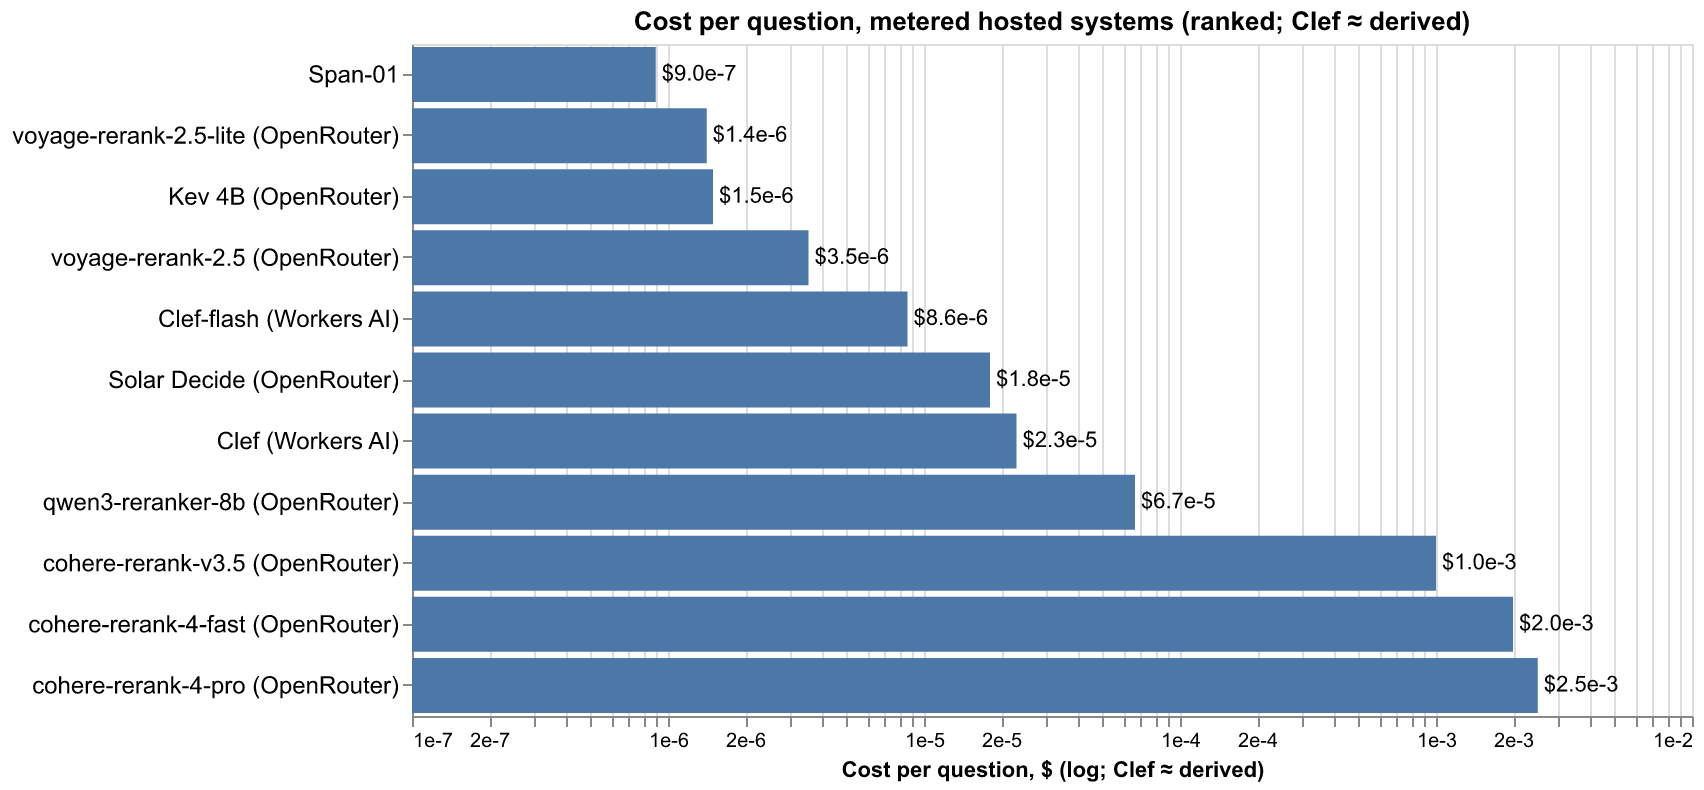
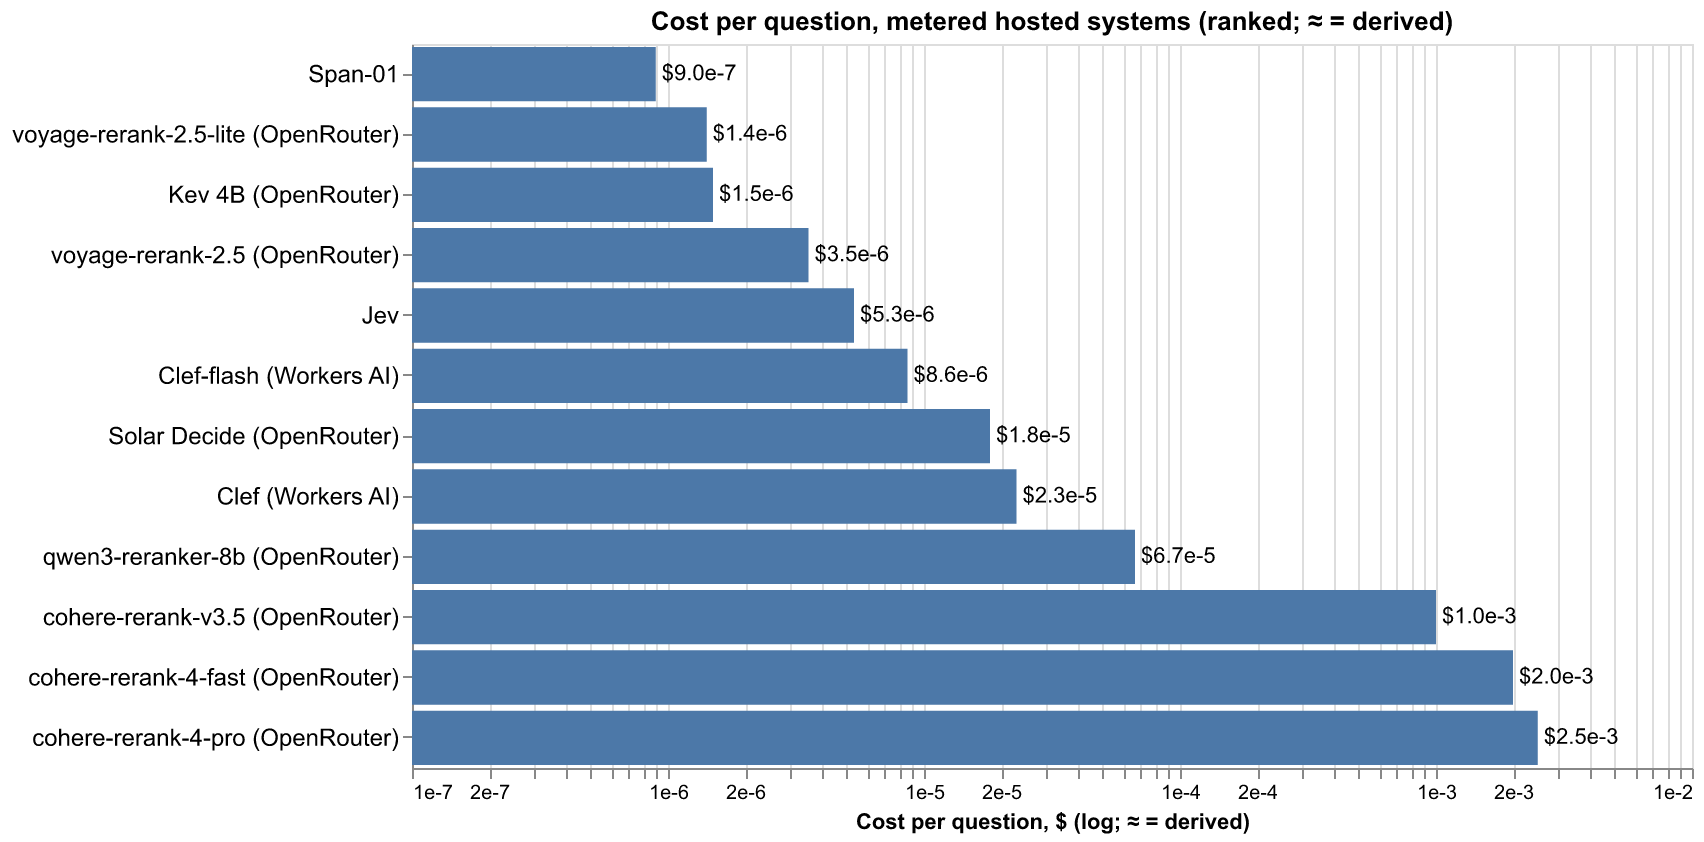
docs(readme,charts): chart Jev at its derived cost
The cost table gains a Jev row — $0.00026 / $0.00027 runs,
$0.0000053 per question — sorted between voyage-rerank-2.5 and
Clef-flash, and the intro + family-table footnotes restate the
derivation rule (list price × measured tokens) for both
tokens-only providers. Regenerated cost charts carry the 12th
metered system and the generalized "≈ = derived" axis title.

Changed region(s): [[0.0, 0.0, 0.9953, 1.0]]

diff --git a/README.md b/README.md
@@ -42,7 +42,7 @@ Just here for the results? **[Skip to the benchmark charts](#benchmark-charts)**
 | [decision](https://ollaya.dev/library/decision) (`decision` via Ollaya) | local decision engine (vLLM Semantic Router Decision 1.0: Qwen3.5-0.8B backbone + endpoint head, one forward pass per question) | 0.75B | Apache 2.0 | $0 · local |
 | [JevK5 4B](https://huggingface.co/alibiserikbay/JevK5-GGUF) (`jevk5` via Ollaya, Q8_0 GGUF) | local decision LLM (the full JevK5 v0.3 on llama.cpp; letters' logits, one pass per question) | 4B | Apache 2.0 | $0 · local |
 | [Winnow E4B](https://huggingface.co/EldanRing/Winnow-E4B) (`winnow:e4b` via Ollaya, Q8_0 GGUF) | local decision LLM (EldanRing, fine-tuned from Gemma 4 E4B on llama.cpp; option letters' logits) | E4B (8 GB Q8_0) | Apache 2.0 | $0 · local |
-| [Jev](https://www.typesafe.ai/) (`jev-latest` via System One API) | cloud typed-decision engine (choice/score/noul) | closed | proprietary API | metered · n/r ‡ |
+| [Jev](https://www.typesafe.ai/) (`jev-latest` via System One API) | cloud typed-decision engine (choice/score/noul) | closed | proprietary API | metered · $5.3e-6/q ‡ |
 | [Kev 4B](https://openrouter.ai/jaredpalmer/kev-4b) (`jaredpalmer/kev-4b` via OpenRouter) | cloud decision engine (same System One contract as local Kev, hosted) | 4B | proprietary API | metered · $1.5e-6/q † |
 | [Solar Decide](https://openrouter.ai/upstage/solar-decide) (`upstage/solar-decide` via OpenRouter) | cloud typed-decision engine (Upstage System One endpoint on Solar Mini 4: choice/score/noul with calibrated probabilities, no prose — one forward, output tokens free, 524K context) | 35B MoE (3B active) | proprietary API | metered · $1.8e-5/q † |
 | [Clef](https://developers.cloudflare.com/workers-ai/models/clef/) / [Clef-flash](https://developers.cloudflare.com/workers-ai/models/clef-flash/) (`clef` / `clef-flash` on Cloudflare Workers AI) | cloud typed-decision engines (Cloudflare's Jev-API-compatible decision models over frozen Qwen3.8-27B / Qwen3.5-9B + rank-256 routing adapters: choice/score/noul probabilities from one non-autoregressive scoring pass, vision-capable state, 64k context) | 27B / 9B | API metered · Apache 2.0 weights on HF | metered · $2.3e-5 / $8.6e-6/q |
@@ -61,7 +61,8 @@ marks who bills per request: `$0 · local` systems cost no API money
 (only CPU time), `metered` systems bill per token/search with the
 **measured** $ per mixed-pool question shown (see [Measured cost per
 hosted run](#measured-cost-per-hosted-run)); ‡ Jev's provider reports
-tokens but no cost, so it has no measured $ figure.
+tokens but no $, so its figures are derived — list price × measured
+tokens, the same rule as the Clef pair's numbers.
 
 Four mechanism families are represented — **extractors** (GLiNER 2.5,
 GLiFormer: spans/entities/relations/records, plus GLiREL: zero-shot
@@ -334,9 +335,10 @@ Takeaways:
 Each hosted system's results entry carries the provider's own usage
 accounting — the `usage` block billed per API response, never
 reconstructed from list prices. Measured on these exact runs (one pass;
-48 mixed-pool questions / 54 multilingual texts). One exception:
-Cloudflare reports input tokens but no $, so the two Clef rows are
-list price ($0.24 / $0.09 per M input) × measured tokens:
+48 mixed-pool questions / 54 multilingual texts). Two exceptions:
+Cloudflare and TypeSafe report input tokens but no $, so the Clef
+and Jev rows are list price ($0.24 / $0.09 / $0.042 per M input)
+× measured tokens:
 
 | System | 48-q run | 54-text run | $ / question |
 |---|---|---|---|
@@ -346,6 +348,7 @@ list price ($0.24 / $0.09 per M input) × measured tokens:
 | voyage-rerank-2.5-lite † | $0.000068 | $0.000115 | $0.0000014 |
 | Kev 4B (OpenRouter) | $0.000072 | $0.000106 | $0.0000015 |
 | voyage-rerank-2.5 † | $0.000170 | $0.000287 | $0.0000035 |
+| Jev (cloud) ‡ | $0.00026 | $0.00027 | $0.0000053 |
 | Clef-flash (Workers AI) | $0.00041 | $0.00078 | $0.0000086 |
 | Solar Decide (OpenRouter) † | $0.00087 | $0.0010 | $0.0000181 |
 | Clef (Workers AI) | $0.0011 | $0.0021 | $0.000023 |
@@ -353,17 +356,16 @@ list price ($0.24 / $0.09 per M input) × measured tokens:
 | cohere-rerank-v3.5 † | $0.048 | $0.054 | $0.0010 |
 | cohere-rerank-4-fast † | $0.096 | $0.108 | $0.0020 |
 | cohere-rerank-4-pro † | $0.120 | $0.135 | $0.0025 |
-| Jev (cloud) | — | — | not reported ‡ |
 
 The cost charts plot the **metered** systems only — free tiers bill $0
 (Span-01 Lite's plain id is priced $0.0, same as its `:free` twin;
-Nemotron runs on `:free`) and Jev reports no cost (‡ tokens only:
-6,094 / 6,430 input across its 2 + 1 batched requests), so it stays
-off them. The Clef pair used to sit out with Jev — same reason, no
-provider-reported $ — but the cost charts now include it at the same
-**derived** numbers as its table rows above: list price × measured
-tokens, computed by `app.cost_summary_frame` from the prices recorded
-in `engines/clef_client.py`, and marked "≈ derived" in the UI. What
+Nemotron runs on `:free`) and stay off them. The Clef pair and Jev
+report tokens but no provider $, so both chart at **derived** numbers
+matching their table rows above: list price × measured tokens,
+computed by `app.cost_summary_frame` from the prices recorded in
+`engines/clef_client.py` and `engines/jev_client.py` (Jev: 6,094 /
+6,430 input tokens across its 2 + 1 batched requests × $0.042/1M),
+and marked "≈ derived" in the UI. What
 the measurements say that the price lists don't: Cohere bills ~2.5 search
 units per rerank request (a 48-q run on 4-pro costs $0.12, not the
 naive 48 × $0.001); kev-4b and Span-01 sit near $1e-6/question — kev
